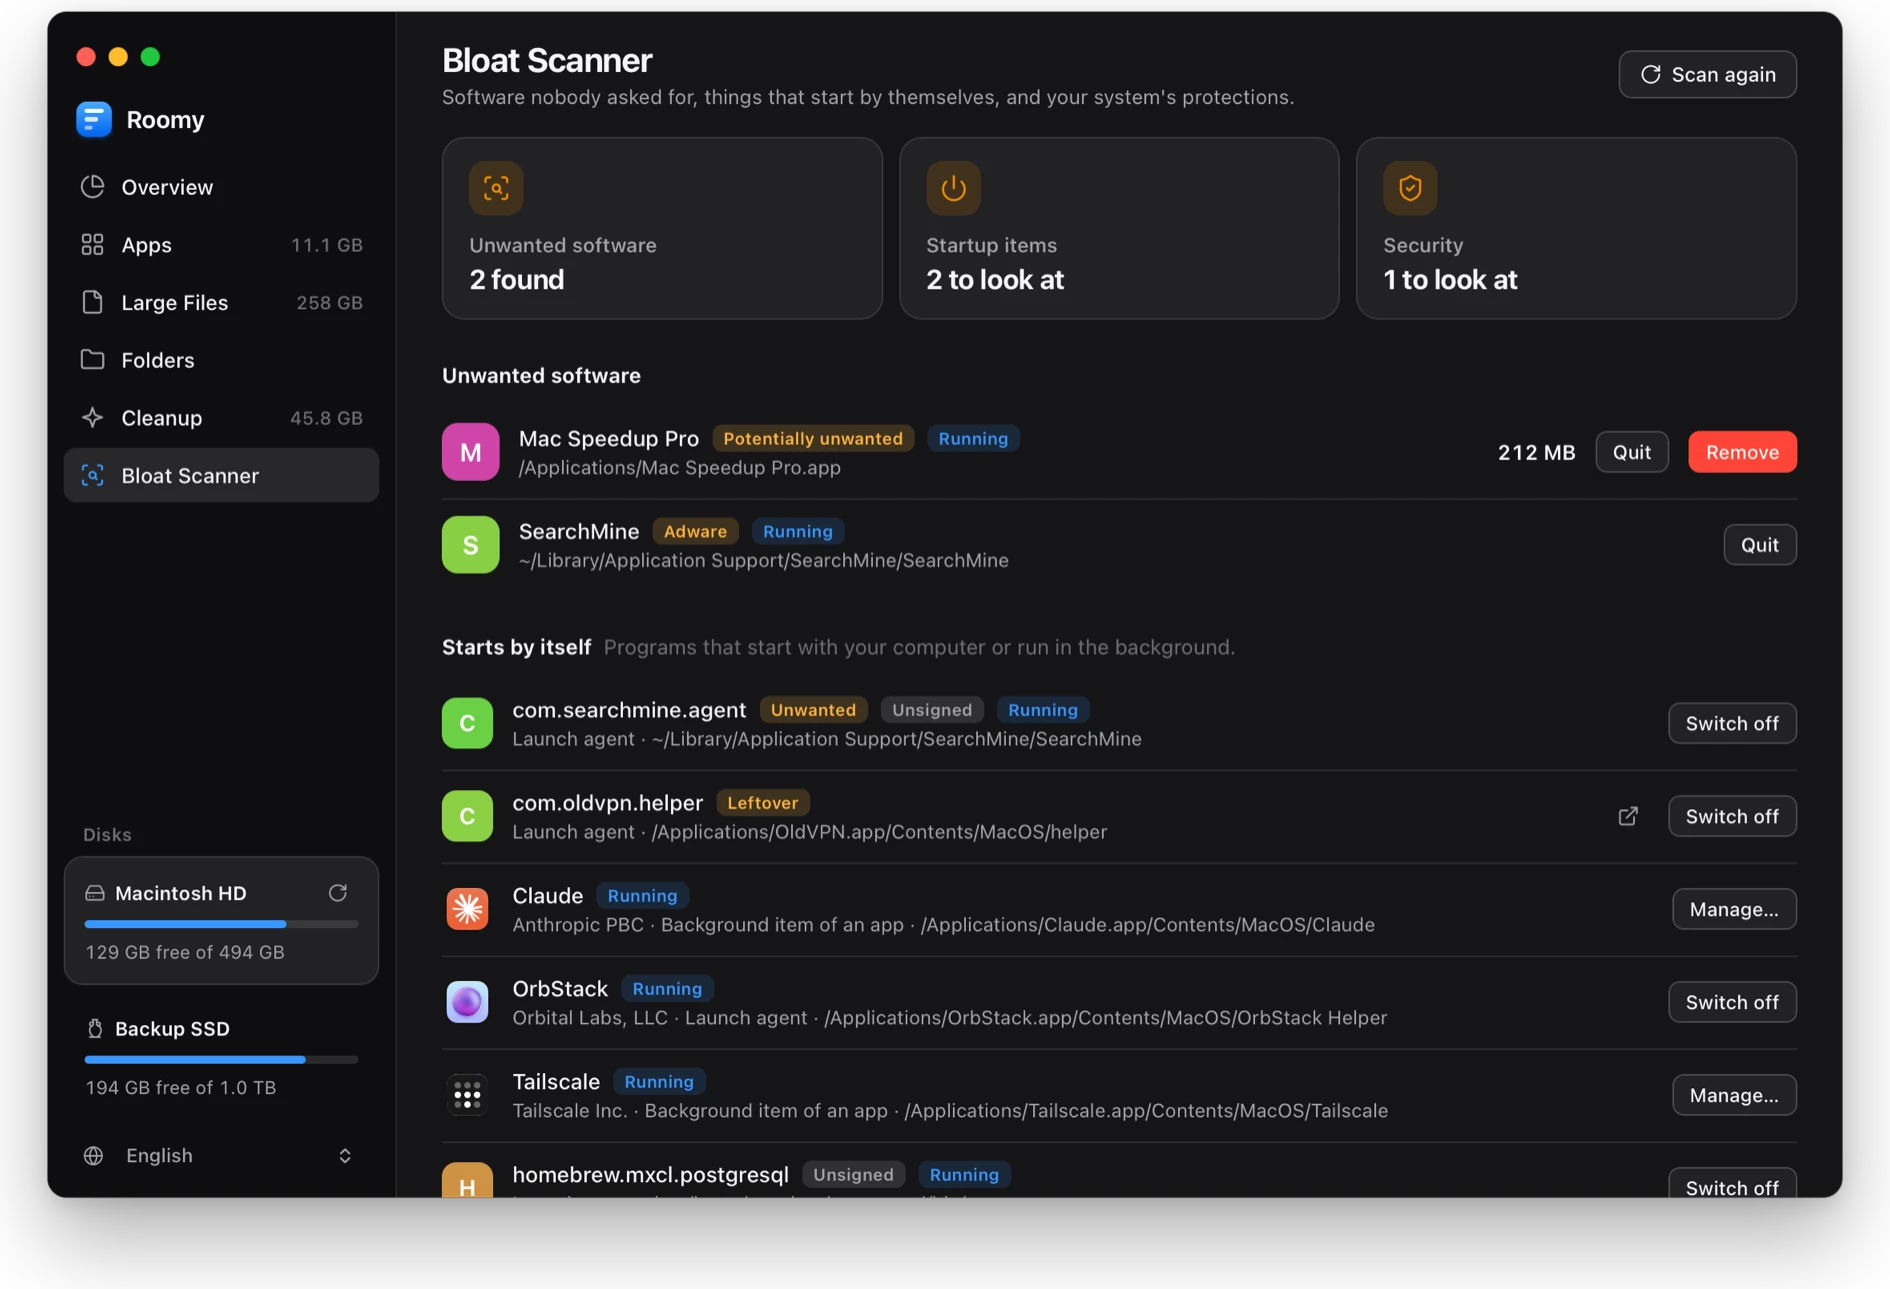
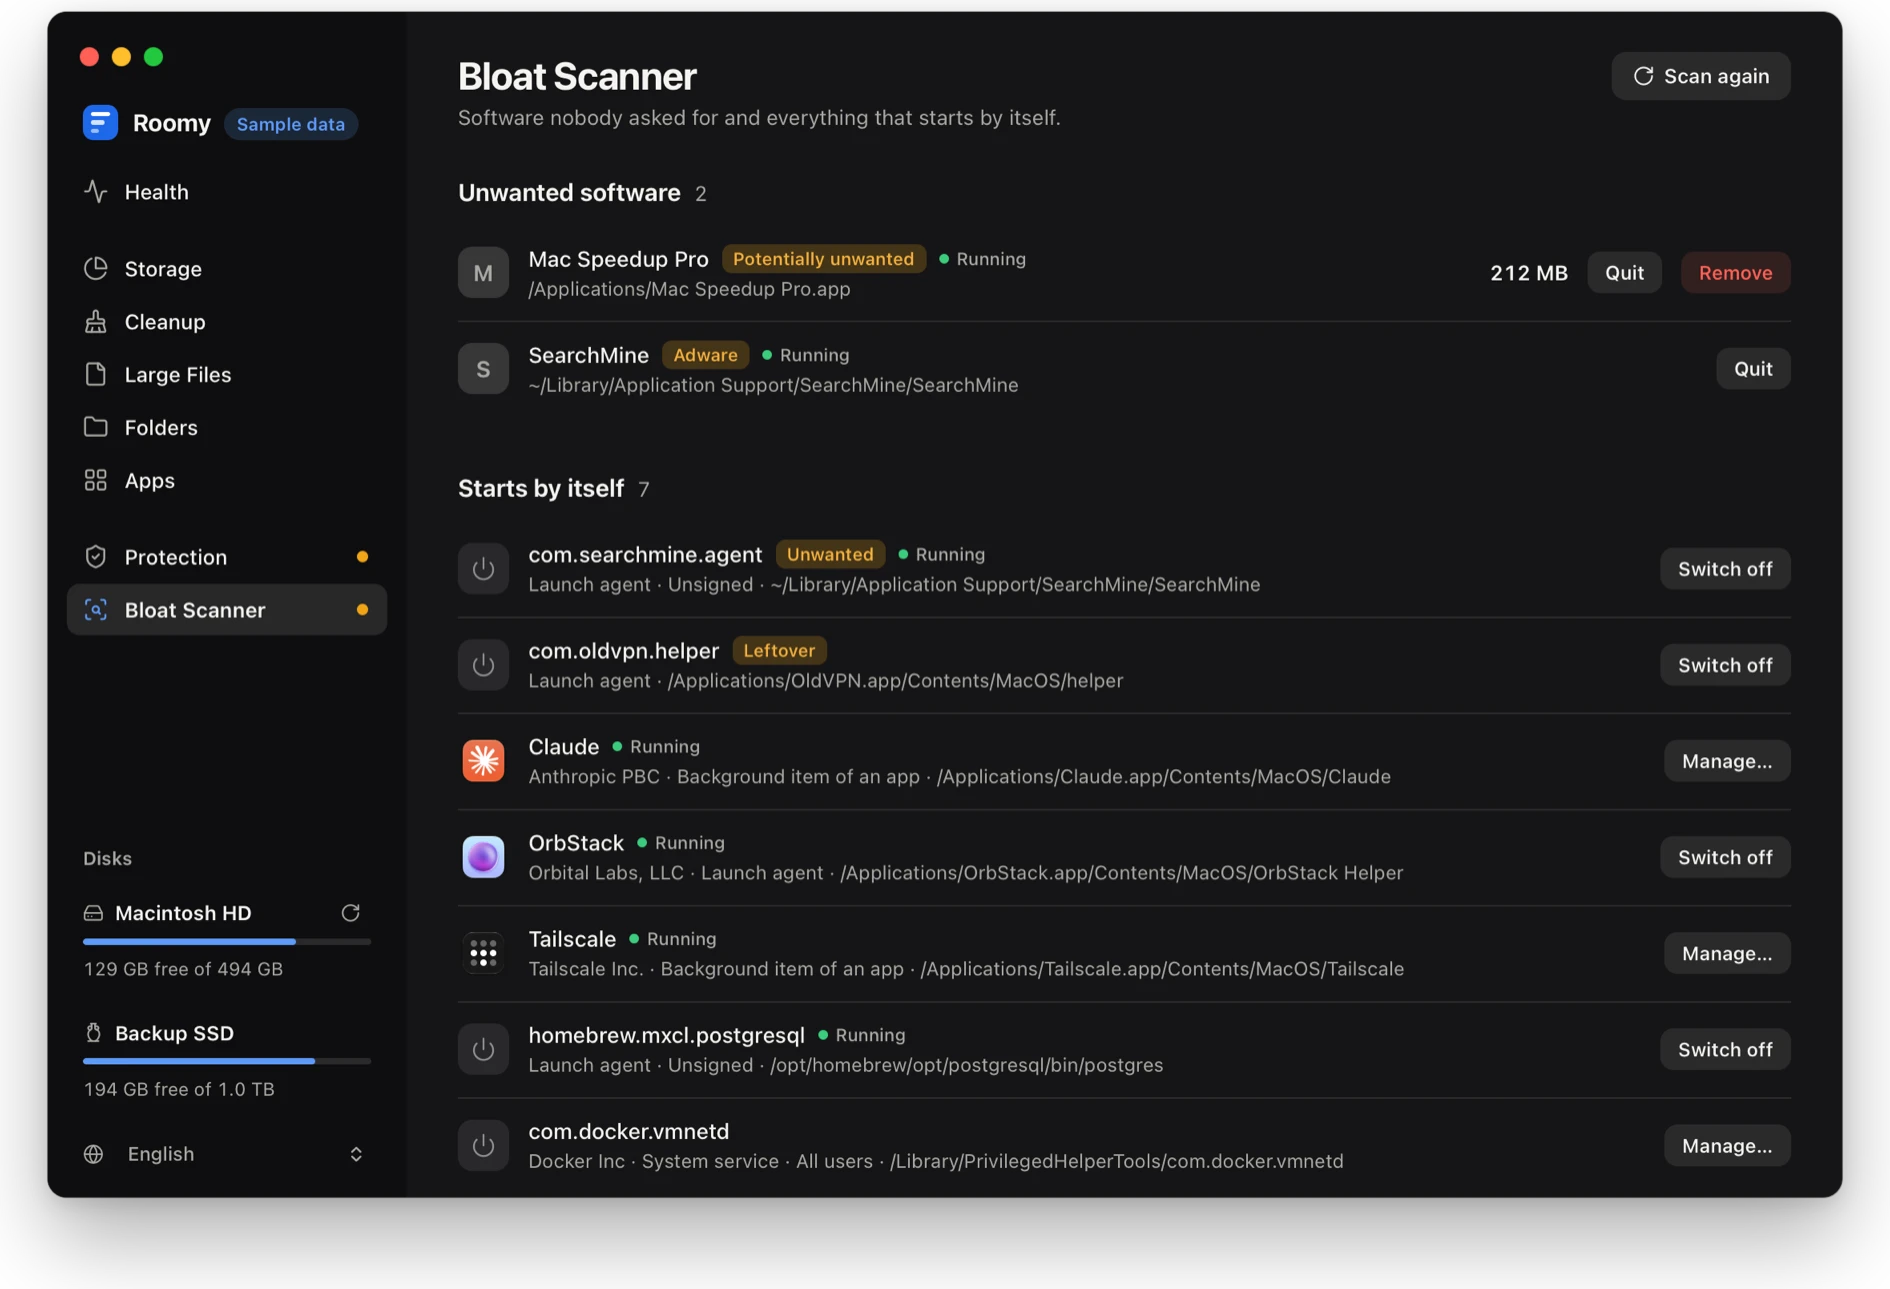
Roomy 0.3: Health and Protection in its pictures and its sentence
Six slides instead of five: Health, Storage, Cleanup, Apps, Protection,
Bloat Scanner. New pictures of the redesigned app, light and dark.

diff --git a/render.js b/render.js
@@ -6,7 +6,7 @@
 
 // Cloudflare keeps pictures for hours under their address. Raise this number
 // whenever a file in assets/ is replaced, so visitors get the new one.
-const ASSETS = "6";
+const ASSETS = "7";
 const asset = (path) => `${path}?v=${ASSETS}`;
 
 // How the known apps are presented. A repository that is not listed here
@@ -21,8 +21,8 @@ const asset = (path) => `${path}?v=${ASSETS}`;
 const APPS = {
   roomy: {
     name: "Roomy",
-    tagline: "See what is on your disk. Delete what you don’t need.",
-    short: "Free up space on your disk",
+    tagline: "See how your computer is doing, what fills its disk, and what should not be on it.",
+    short: "Check up and clean up your computer",
     platforms: "macOS and Windows",
     icon: "assets/roomy.png",
     requires: "macOS 12 or later, Windows 10 and 11",
@@ -33,19 +33,14 @@ const APPS = {
     ],
     slides: [
       {
-        label: "Overview",
+        label: "Health",
+        caption: "Storage, memory, processor and battery at a glance, and a check-up that says what to look at.",
+        shots: [{ src: "assets/roomy/health", w: 1890, h: 1289, kind: "window" }],
+      },
+      {
+        label: "Storage",
         caption: "How much is free, what uses the rest, and where cleaning up pays off.",
-        shots: [{ src: "assets/roomy/overview", w: 1890, h: 1289, kind: "window" }],
-      },
-      {
-        label: "Apps",
-        caption: "Every app with its size and when you last opened it. Tick what can go.",
-        shots: [{ src: "assets/roomy/apps", w: 1890, h: 1289, kind: "window" }],
-      },
-      {
-        label: "Large files",
-        caption: "The biggest files on the disk, filtered by type.",
-        shots: [{ src: "assets/roomy/files", w: 1890, h: 1289, kind: "window" }],
+        shots: [{ src: "assets/roomy/storage", w: 1890, h: 1289, kind: "window" }],
       },
       {
         label: "Cleanup",
@@ -53,8 +48,18 @@ const APPS = {
         shots: [{ src: "assets/roomy/cleanup", w: 1890, h: 1289, kind: "window" }],
       },
       {
+        label: "Apps",
+        caption: "Every app with its size and when you last opened it. Tick what can go.",
+        shots: [{ src: "assets/roomy/apps", w: 1890, h: 1289, kind: "window" }],
+      },
+      {
+        label: "Protection",
+        caption: "A malware scan with the signatures your system already trusts, and your security settings.",
+        shots: [{ src: "assets/roomy/protection", w: 1890, h: 1289, kind: "window" }],
+      },
+      {
         label: "Bloat Scanner",
-        caption: "Finds unwanted software, shows what starts by itself, checks your protections.",
+        caption: "Finds software nobody asked for and shows everything that starts by itself.",
         shots: [{ src: "assets/roomy/bloat", w: 1890, h: 1289, kind: "window" }],
       },
     ],
